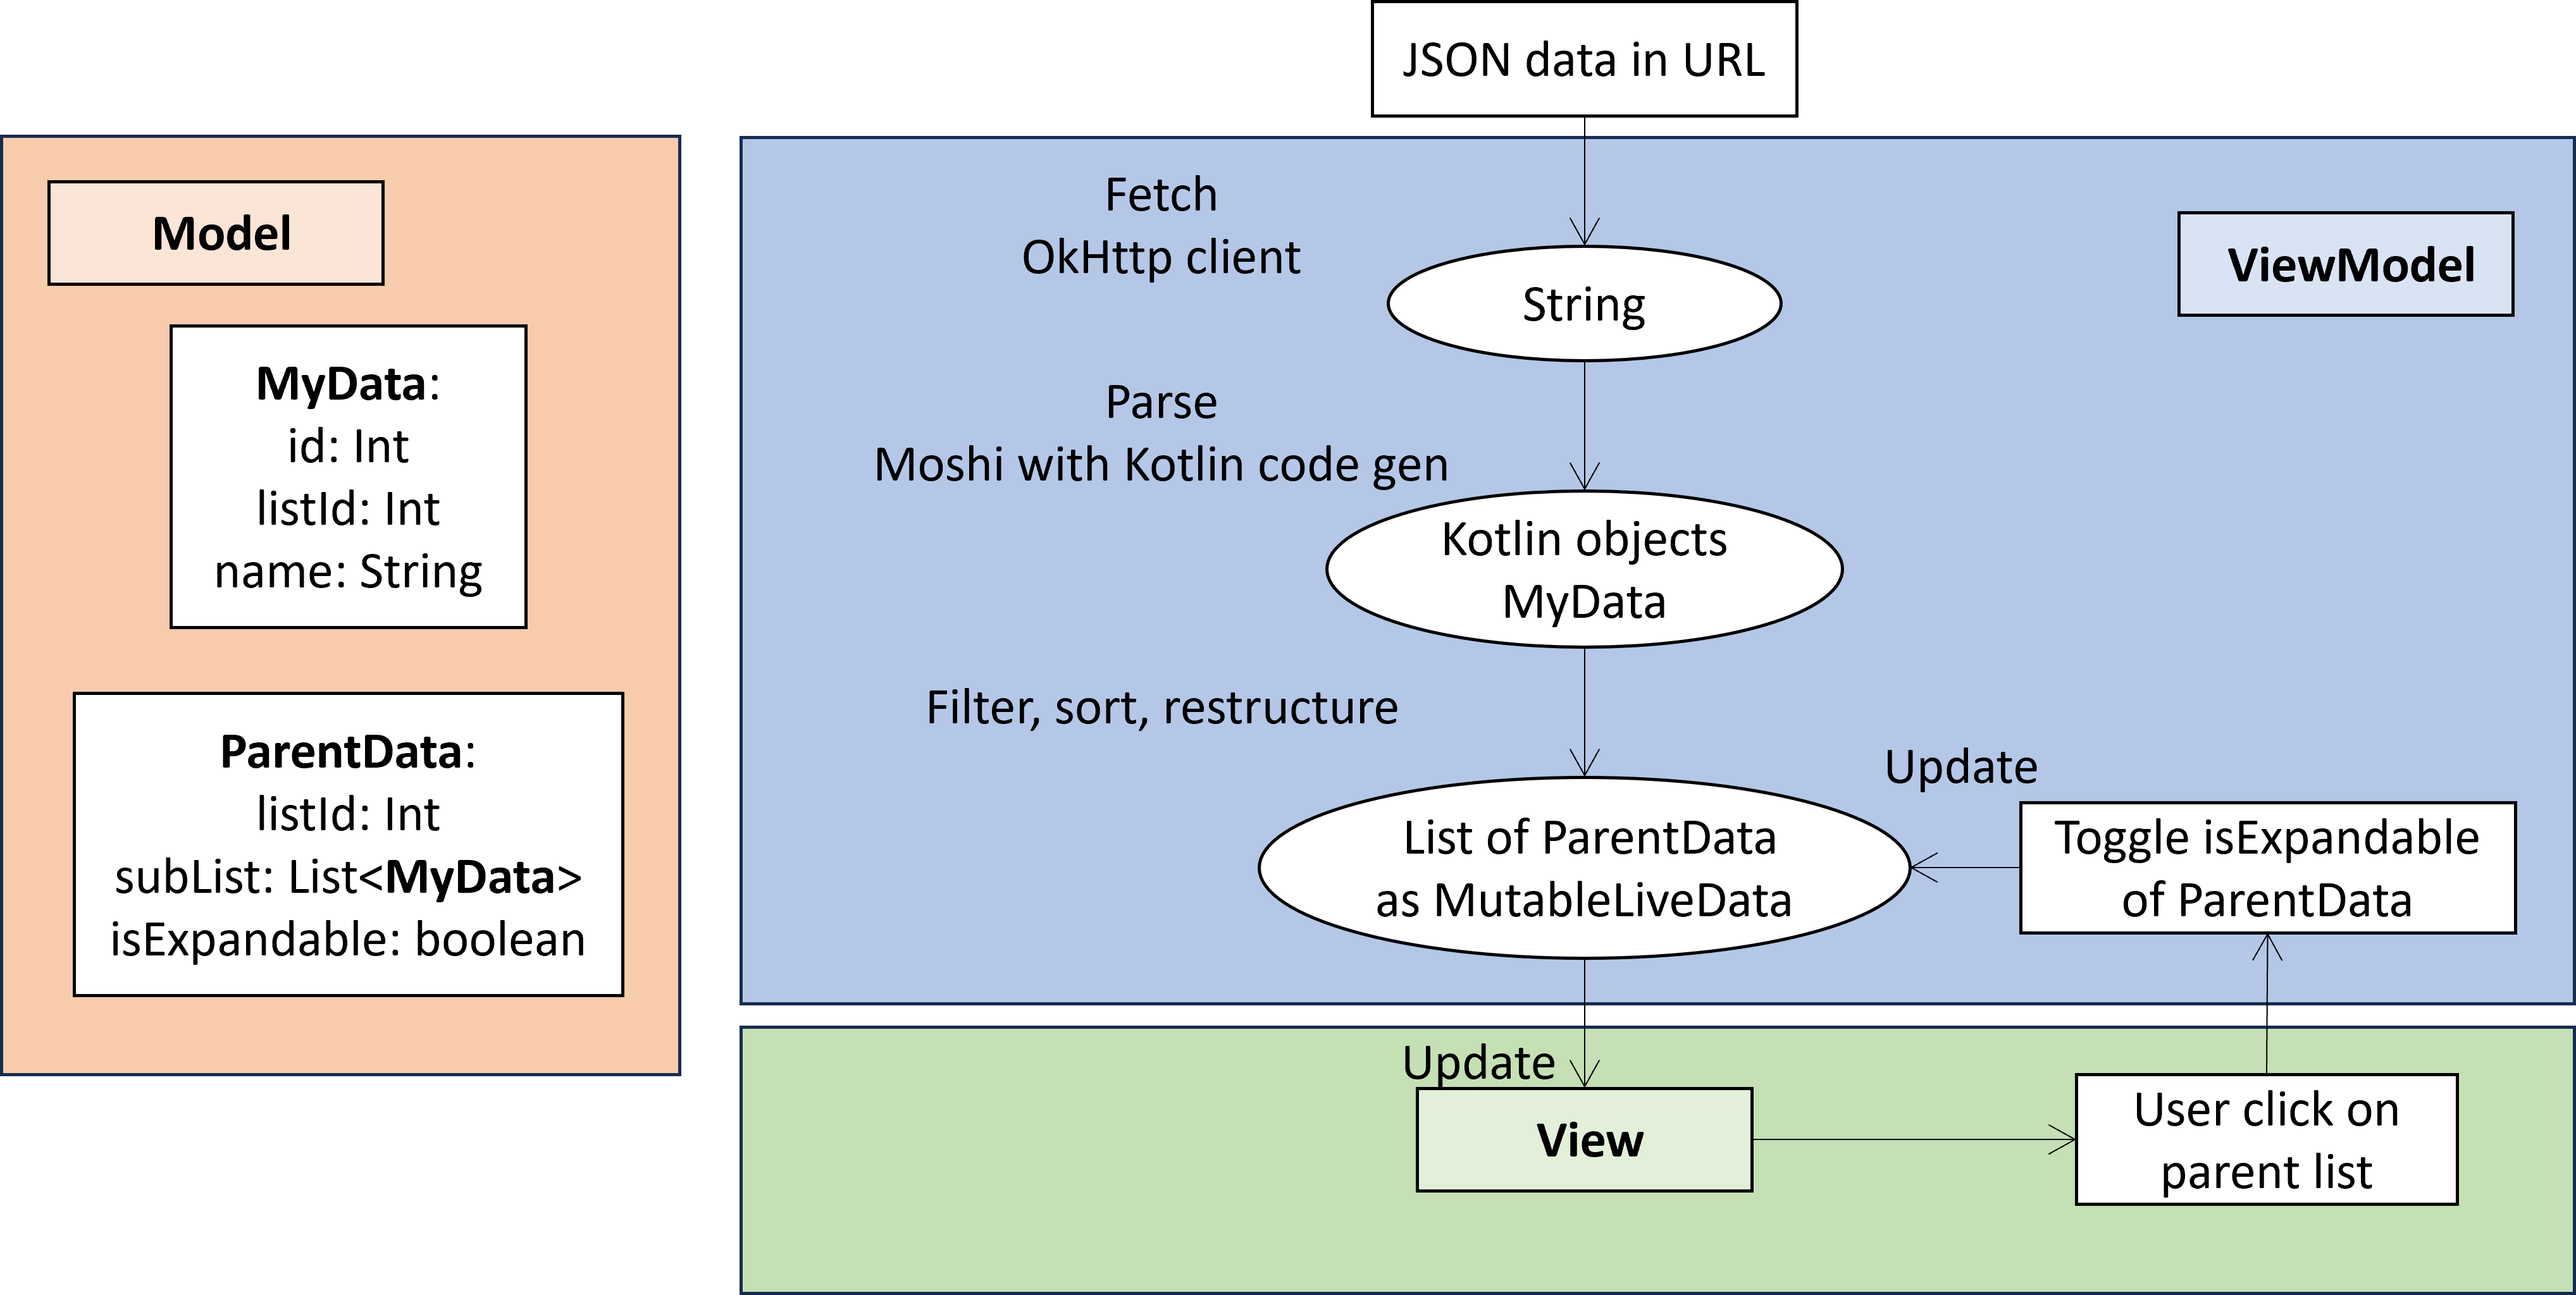
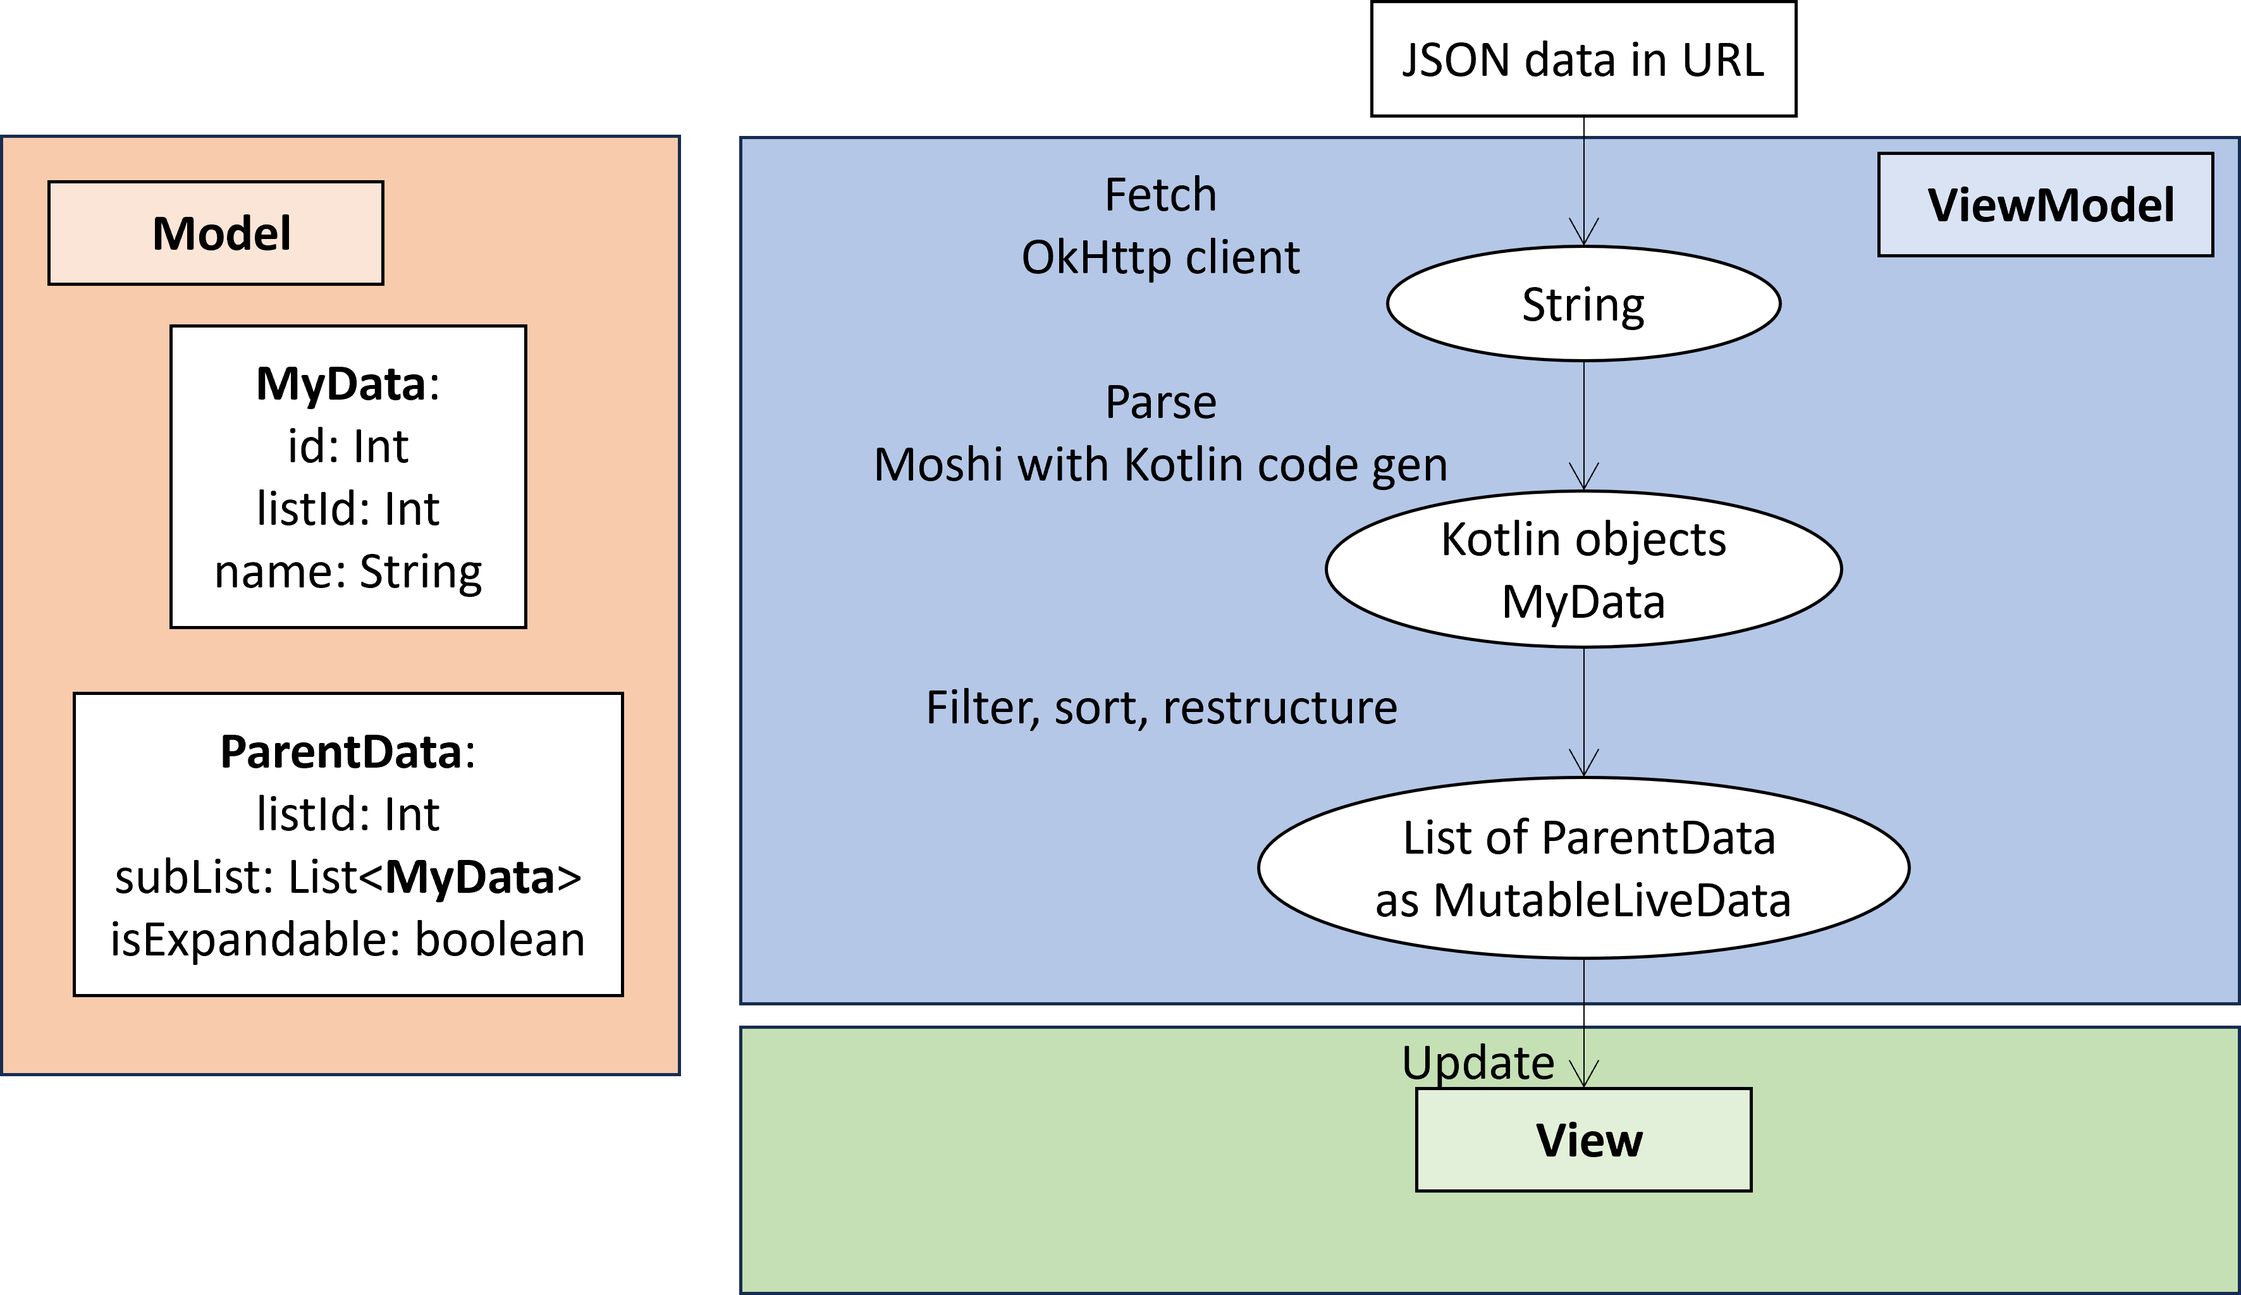
small edits

diff --git a/app/src/main/java/com/example/fetchlist/MyViewModel.kt b/app/src/main/java/com/example/fetchlist/MyViewModel.kt
@@ -9,48 +9,66 @@ import com.squareup.moshi.Types
 import kotlinx.coroutines.Dispatchers
 import kotlinx.coroutines.launch
 import kotlinx.coroutines.withContext
+import okhttp3.HttpUrl
+import okhttp3.HttpUrl.Companion.toHttpUrl
 import okhttp3.OkHttpClient
 import okhttp3.Request
 import java.io.IOException
-import kotlin.Exception
 
 class MyViewModel : ViewModel() {
 
     val parsedJsonData: MutableLiveData<List<ParentData>?> = MutableLiveData()
-
     init {
         viewModelScope.launch {
-            fetchAndParseData()
+            fetchAndParseData("https://fetch-hiring.s3.amazonaws.com/hiring.json".toHttpUrl())
         }
     }
 
-    private suspend fun fetchAndParseData() {
-            try {
-                val jsonDataString: String = fetchData()
-                parsedJsonData.postValue(parseJsonData(jsonDataString))
-            } catch (e: Exception) {
-                e.printStackTrace()
-            }
+    internal suspend fun fetchAndParseData(address: HttpUrl) {
+        lateinit var jsonDataString: String
+        try {
+            jsonDataString= fetchData(address)
+
+        } catch (e: IOException) { // IO Exception during fetching
+            e.printStackTrace()
+            parsedJsonData.postValue(null)
+            return
+        }
+
+        parsedJsonData.postValue(parseJsonData(jsonDataString))
+
     }
 
-    private suspend fun fetchData() : String {
+    internal suspend fun fetchData(address: HttpUrl) : String {
         val client = OkHttpClient()
 
         val request = Request.Builder()
-            .url("https://fetch-hiring.s3.amazonaws.com/hiring.json")
+            .url(address)
             .build()
 
         return withContext(Dispatchers.IO) {
             val response = client.newCall(request).execute()
             if (response.isSuccessful) {
-                response.body!!.string()
+
+                // successful response should have a non-null body (can be empty), but just in case..
+                val fetchedData = response.body?.string()
+                if (fetchedData.isNullOrEmpty()) {
+                    ""
+                } else {
+                    fetchedData
+                }
             } else {
                 throw IOException("The network response is not successful.")
             }
         }
     }
 
-    private fun parseJsonData(jsonData: String): List<ParentData>? {
+    internal fun parseJsonData(jsonData: String?): List<ParentData>? {
+
+        // skip the work
+        if (jsonData.isNullOrEmpty()) {
+            return null
+        }
 
         // parse Json data with moshi code gen
         val moshi = Moshi.Builder().build()
@@ -78,9 +96,12 @@ class MyViewModel : ViewModel() {
         }
     }
 
-    fun toggleExpandableState(parentDataList: List<ParentData>, position: Int) {
-        val parentData = parentDataList[position]
-        parentData.isExpandable = !parentData.isExpandable
-        parsedJsonData.value = parentDataList
-    }
+//     fun toggleExpandableState(parentDataList: List<ParentData>, position: Int) {
+//
+//        val updatedParentDataList = parentDataList.toMutableList()
+//        val parentData = updatedParentDataList[position]
+//        parentData.isExpandable = !parentData.isExpandable
+//        parsedJsonData.value = updatedParentDataList
+
+//    }
 }

diff --git a/app/src/main/java/com/example/fetchlist/ParentAdapter.kt b/app/src/main/java/com/example/fetchlist/ParentAdapter.kt
@@ -1,6 +1,5 @@
 package com.example.fetchlist
 
-import android.text.Layout
 import android.util.Log
 import android.view.LayoutInflater
 import android.view.View
@@ -24,6 +23,7 @@ class ParentRecyclerViewAdapter (private val viewModel: MyViewModel, private val
 //        Log.i(TAG, "onCreateViewHolder")
         val adapterLayout = LayoutInflater.from(parent.context)
             .inflate(R.layout.parent_item, parent, false)
+
         return ParentRecyclerViewHolder(adapterLayout)
     }
 
@@ -40,11 +40,13 @@ class ParentRecyclerViewAdapter (private val viewModel: MyViewModel, private val
         holder.childRecyclerView.layoutManager = LinearLayoutManager(holder.itemView.context)
         holder.childRecyclerView.adapter = ChildRecyclerViewAdapter(parentData.subList)
 
-        // expandability
+        // expandable functionality
         holder.childRecyclerView.visibility = if (parentData.isExpandable) View.GONE else View.VISIBLE
 
         holder.parentListCard.setOnClickListener {
-            viewModel.toggleExpandableState(parentDataList, position)
+            //viewModel.toggleExpandableState(parentDataList, position)
+            parentData.isExpandable = !parentData.isExpandable
+            notifyItemChanged(position)
         }
     }
 
